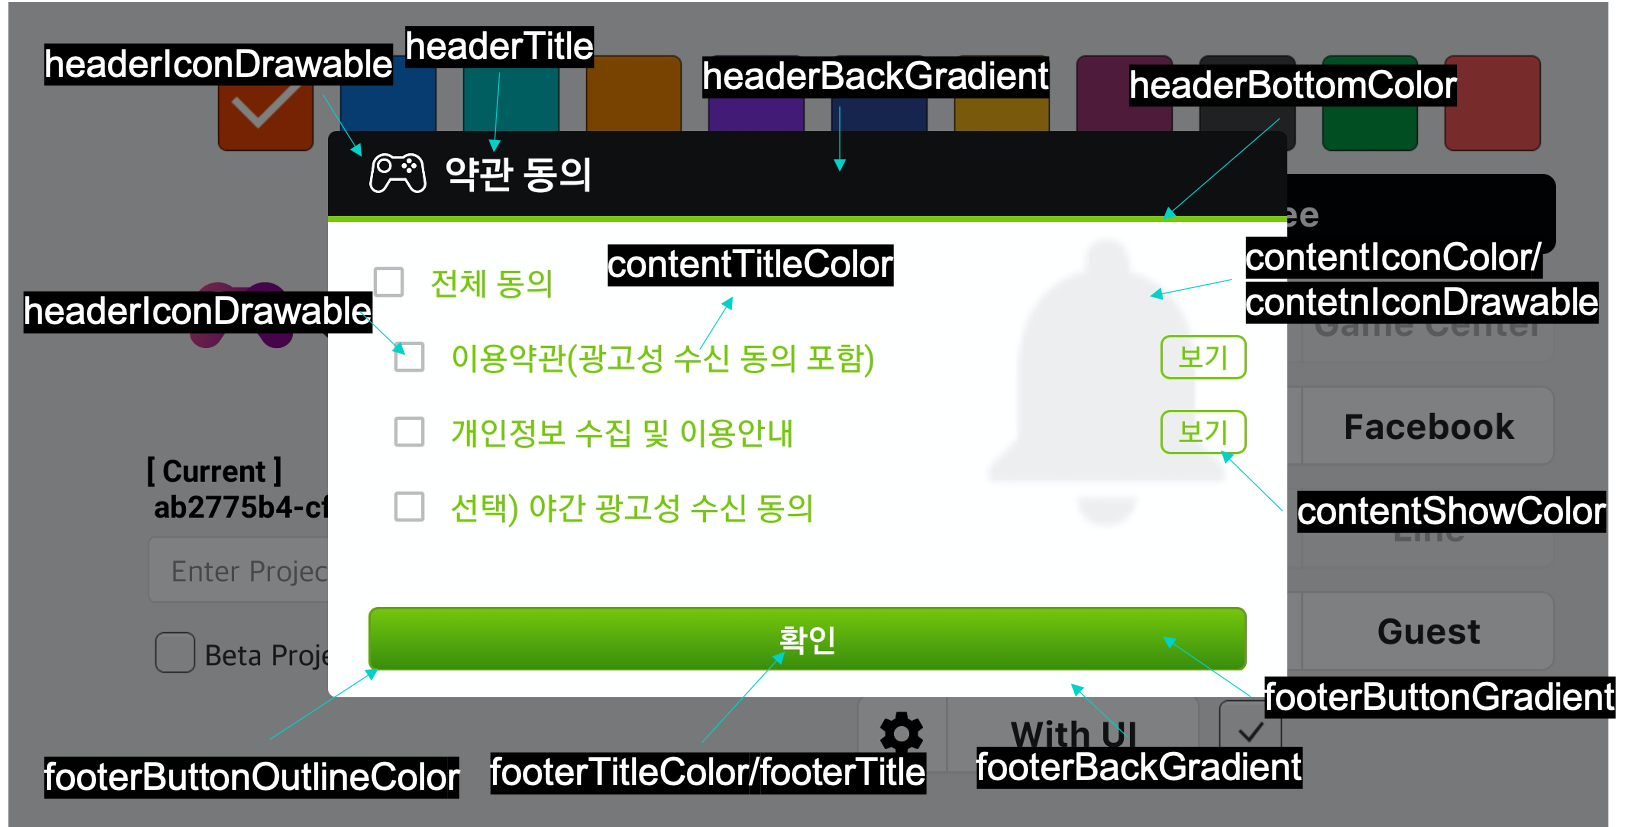
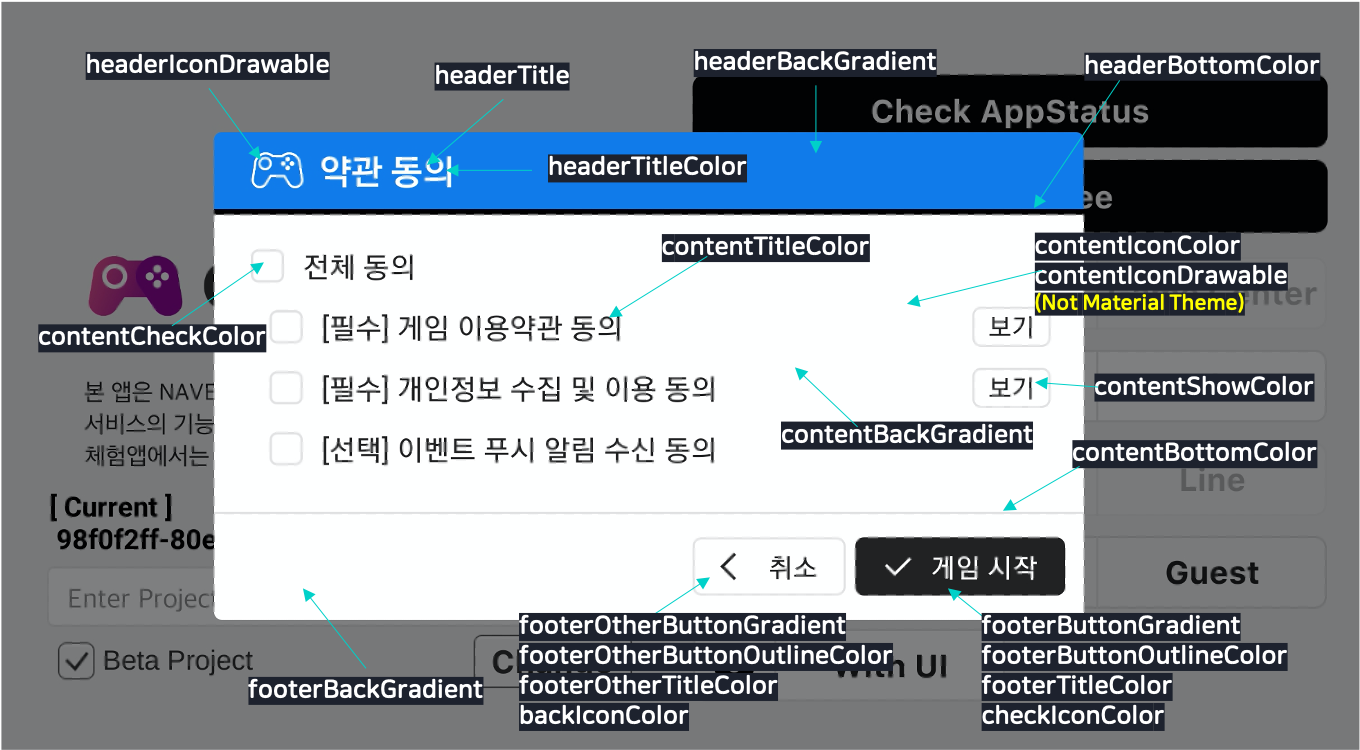
[android] sdk 업데이트 사항 추가

diff --git a/ko/gamepot_android.md b/ko/gamepot_android.md
@@ -1195,13 +1195,36 @@ GamePotChannel.getInstance().login(this, GamePotChannelType.GOOGLE, new GamePotA
 });
 ```
 
-### 약관 동의
+### 약관 동의 (GDPR 포함)
 
-'이용약관' 및 '개인정보 수집 및 이용안내' 동의를 쉽게 받을 수 있도록 UI를 제공합니다.
+'GDPR' 및 '이용약관', '개인정보 수집 및 이용안내' 동의를 쉽게 받을 수 있도록 UI를 제공합니다.
 
 `BLUE` 테마와 `GREEN` 테마 두 가지의 `기본테마` 이외에도, 새롭게 추가된 11 종류의 `개선테마`를 제공합니다.
 
-#### 약관 동의 호출
+#### 약관 동의 호출 (자동)
+
+`GAMEPOT SDK V3.3.0` 부터, **로그인 시 자동으로 약관 동의 팝업이 노출** 됩니다.
+
+로그인 전, 플래그 값을 통해 이를 변경할 수 있습니다.
+
+```java
+// Default Value는 true
+// 자동 팝업 시, MATERIAL_BLUE 테마로 적용 
+// false로 셋팅 시, 로그인 할 때 약관 동의 팝업이 노출되지 않습니다.
+GamePot.getInstance().setAutoAgree(true);
+
+// MATERIAL_ORANGE 테마로 커스텀 적용 시
+GamePotAgreeBuilder bulider = new GamePotAgreeBuilder(GamePotAgreeBuilder.THEME.MATERIAL_ORANGE);
+GamePot.getInstance().setAutoAgreeBuilder(bulider);
+
+...
+
+GamePotChannel.getInstance().login(GamePotChannelType);
+
+...
+```
+
+#### 약관 동의 호출 (수동)
 
 ```java
 // 기본 테마
@@ -1229,7 +1252,7 @@ GamePotAgreeBuilder.THEME.MATERIAL_PEACH,
 Request:
 
 ```java
-// 기본 호출(BLUE 테마로 적용)
+// 기본 호출(MATERIAL_BLUE 테마로 적용)
 GamePot.getInstance().showAgreeDialog(/*activity*/, new GamePotAgreeBuilder(), new GamePotListener<GamePotAgreeInfo>() {
     @Override
     public void onSuccess(GamePotAgreeInfo data) {
@@ -1259,6 +1282,7 @@ GamePot.getInstance().showAgreeDialog(/*activity*/, bulider, new GamePotListener
 
 ```java
 GamePotAgreeBuilder agreeBuilder= new GamePotAgreeBuilder();
+
 agreeBuilder.setHeaderBackGradient(new int[] {0xFF00050B,0xFF0F1B21});
 agreeBuilder.setHeaderTitleColor(0xFFFF0000);
 agreeBuilder.setHeaderBottomColor(0xFF00FF00);
@@ -1281,25 +1305,27 @@ agreeBuilder.setFooterButtonOutlineColor(0xFFFF171A);
 agreeBuilder.setFooterTitleColor(0xFFFF00D5);
 agreeBuilder.setFooterTitle("게임 시작하기");
 
-//일반 광고성 수신동의 버튼 노출 여부
+//광고성 수신동의(일반/야간) 체크 후, 게임 시작 시 Toast 메시지(동의 시간) 노출 여부
+agreeBuilder.setShowToastPushStatus(true);
+
+//(GDPR 미사용 시) 일반 광고성 수신동의 버튼 노출 여부
 agreeBuilder.setShowPush(true);
 
-// 야간 광고성 수신동의 버튼 노출 여부
+//(GDPR 미사용 시) 야간 광고성 수신동의 버튼 노출 여부
 agreeBuilder.setShowNightPush(true);
 
-// 일반 광고성 수신동의 링크 버튼 설정(미사용 시, 입력 안함)
+//(GDPR 미사용 시) 일반 광고성 수신동의 링크 버튼 설정(미사용 시, 입력 안함)
 agreeBuilder.setPushDetailURL("https://...");
 
-// 야간 광고성 수신동의 링크 버튼 설정 (미사용 시, 입력 안함)
+//(GDPR 미사용 시)  야간 광고성 수신동의 링크 버튼 설정 (미사용 시, 입력 안함)
 agreeBuilder.setNightPushDetailURL("https://...");
 
-// 문구 변경
+//(GDPR 미사용 시) 약관 문구 변경
 agreeBuilder.setAllMessage("모두 동의");
 agreeBuilder.setTermMessage("필수) 이용약관");
 agreeBuilder.setPrivacyMessage("필수) 개인정보 취급 방침");
 agreeBuilder.setPushMessage("선택) 일반 푸시 수신 동의");
 agreeBuilder.setNightPushMessage("선택) 야간 푸시 수신 동의");
-
 
 GamePot.getInstance().showAgreeDialog(/*activity*/, agreeBuilder, new GamePotListener<GamePotAgreeInfo>() {
   ....
@@ -1311,6 +1337,9 @@ GamePot.getInstance().showAgreeDialog(/*activity*/, agreeBuilder, new GamePotLis
 > contentIconDrawable의 기본 이미지는 푸시 아이콘으로 설정됩니다.
 
 ![gamepot_android_09](./images/gamepot_android_09.png)
+![gamepot_android_09_1](./images/gamepot_android_09_1.png)
+![gamepot_android_09_2](./images/gamepot_android_09_2.png)
+
 
 ### 이용약관
 
@@ -1428,6 +1457,33 @@ gdpr_push_normal : 이벤트 Push 수신동의
 gdpr_push_night : 야간 이벤트 Push 수신동의 (한국만 해당)
 gdpr_adapp_custom : 개인 맞춤광고 보기에 대한 동의 (GDPR 적용국가)
 gdpr_adapp_nocustom : 개인 맞춤이 아닌 광보 보기에 대한 동의 (GDPR 적용국가)
+```
+
+### AppStatus 확인
+
+현재 클라이언트의 AppStatus를 확인할 수 있습니다.
+
+```java
+import io.gamepot.common.GamePot;
+
+GamePot.getInstance().checkAppStatus(new GamePotAppStatusResultListener() {
+    @Override
+    public void onSuccess(){
+   
+    }
+    @Override
+    public void onFailure(GamePotError error){
+
+    }
+    @Override
+    public void onNeedUpdate(GamePotAppStatus status){
+
+    }
+    @Override
+    public void onMainternance(GamePotAppStatus status){
+
+    }
+});
 ```
 
 # 부록
